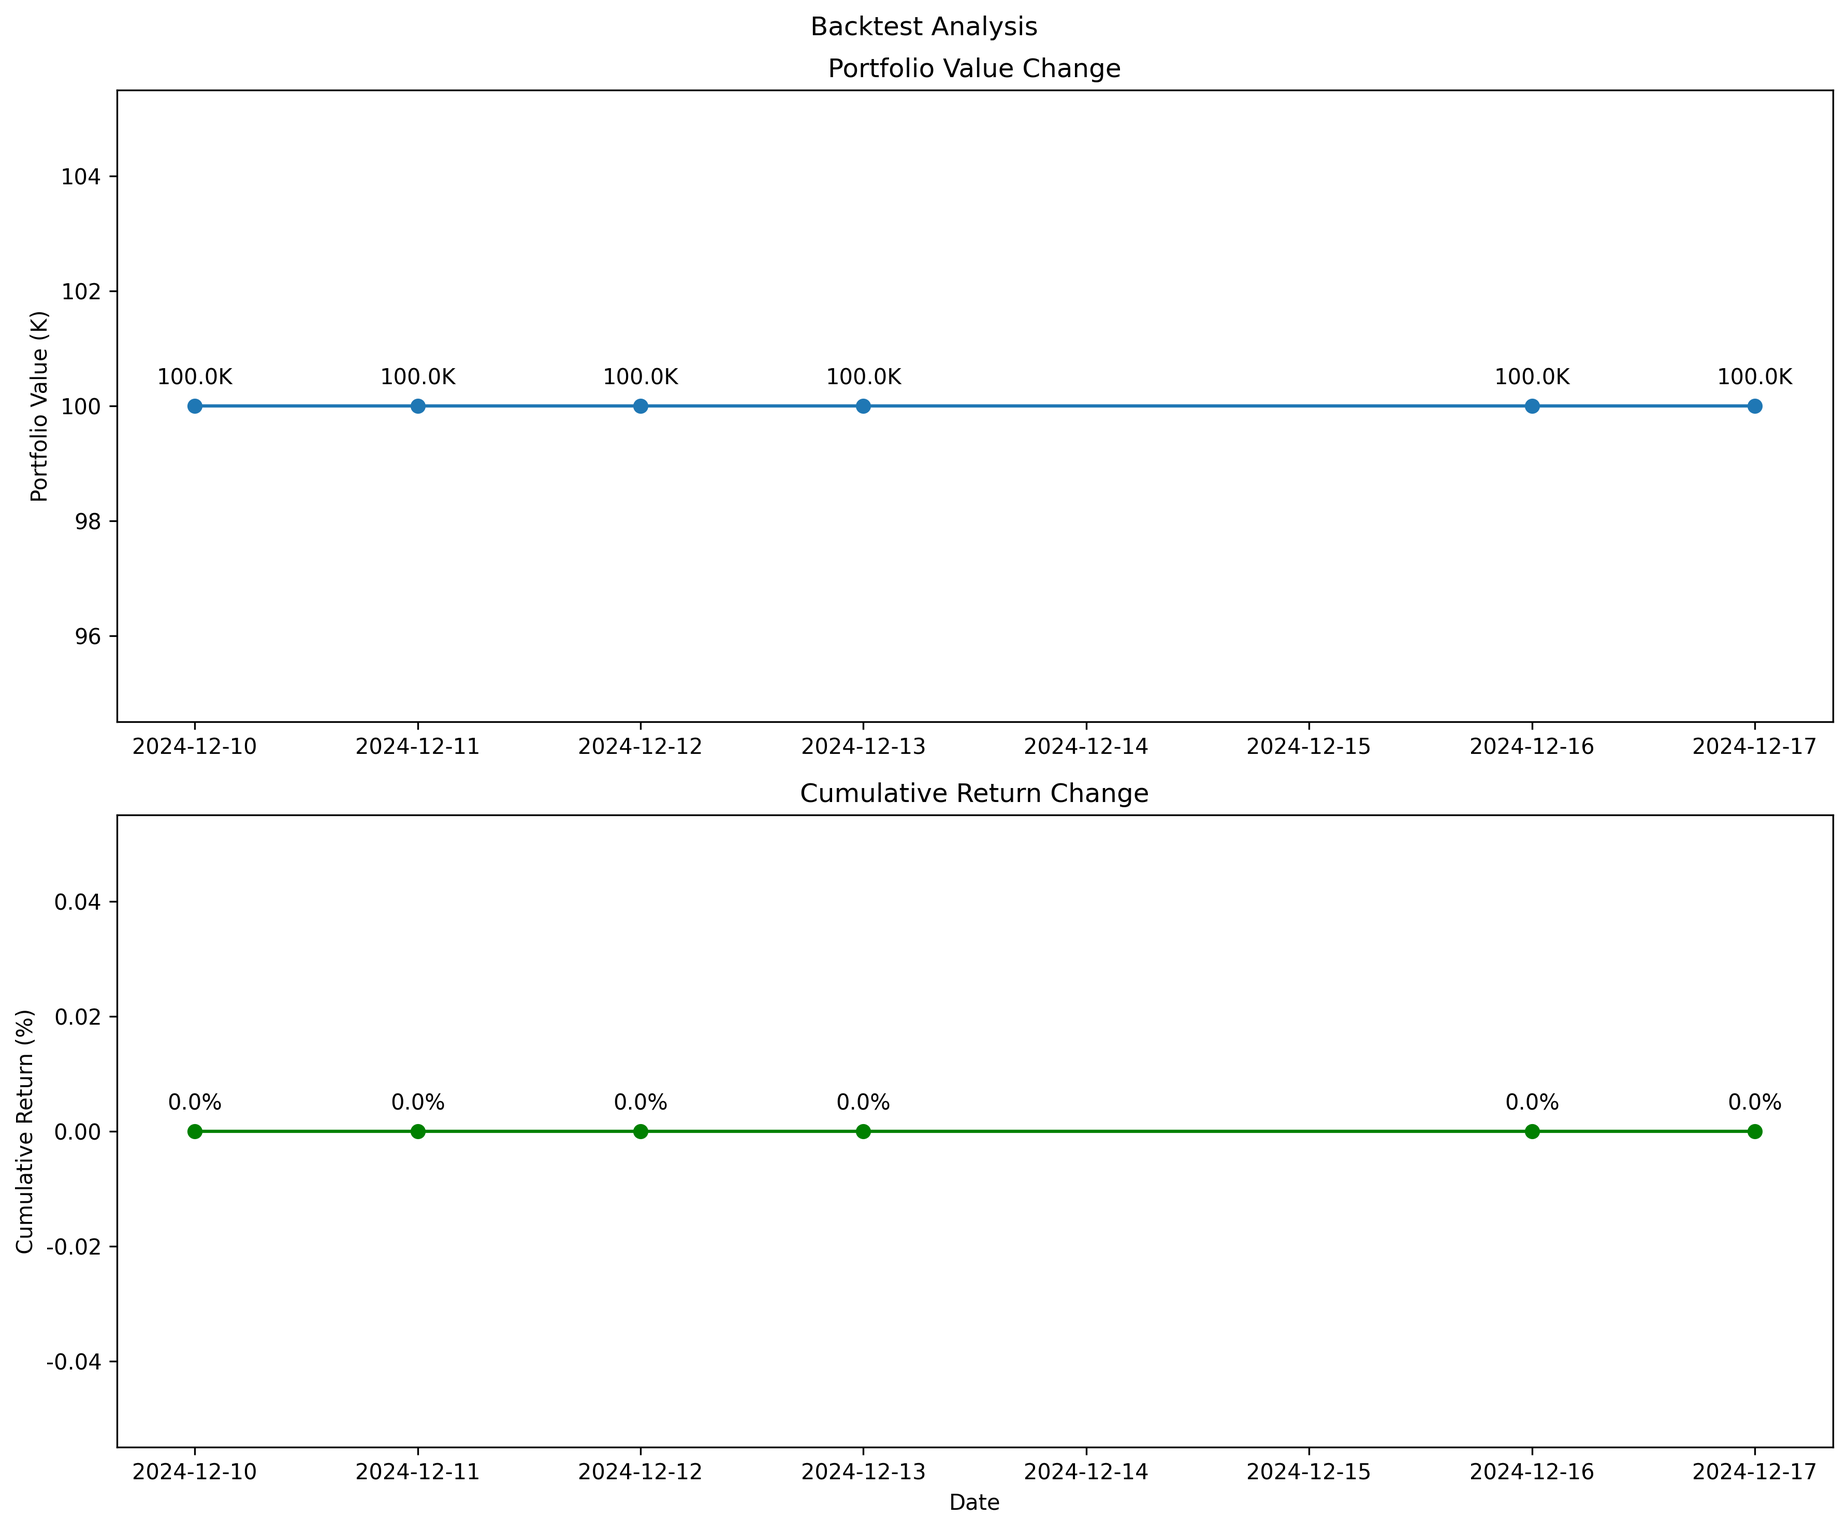
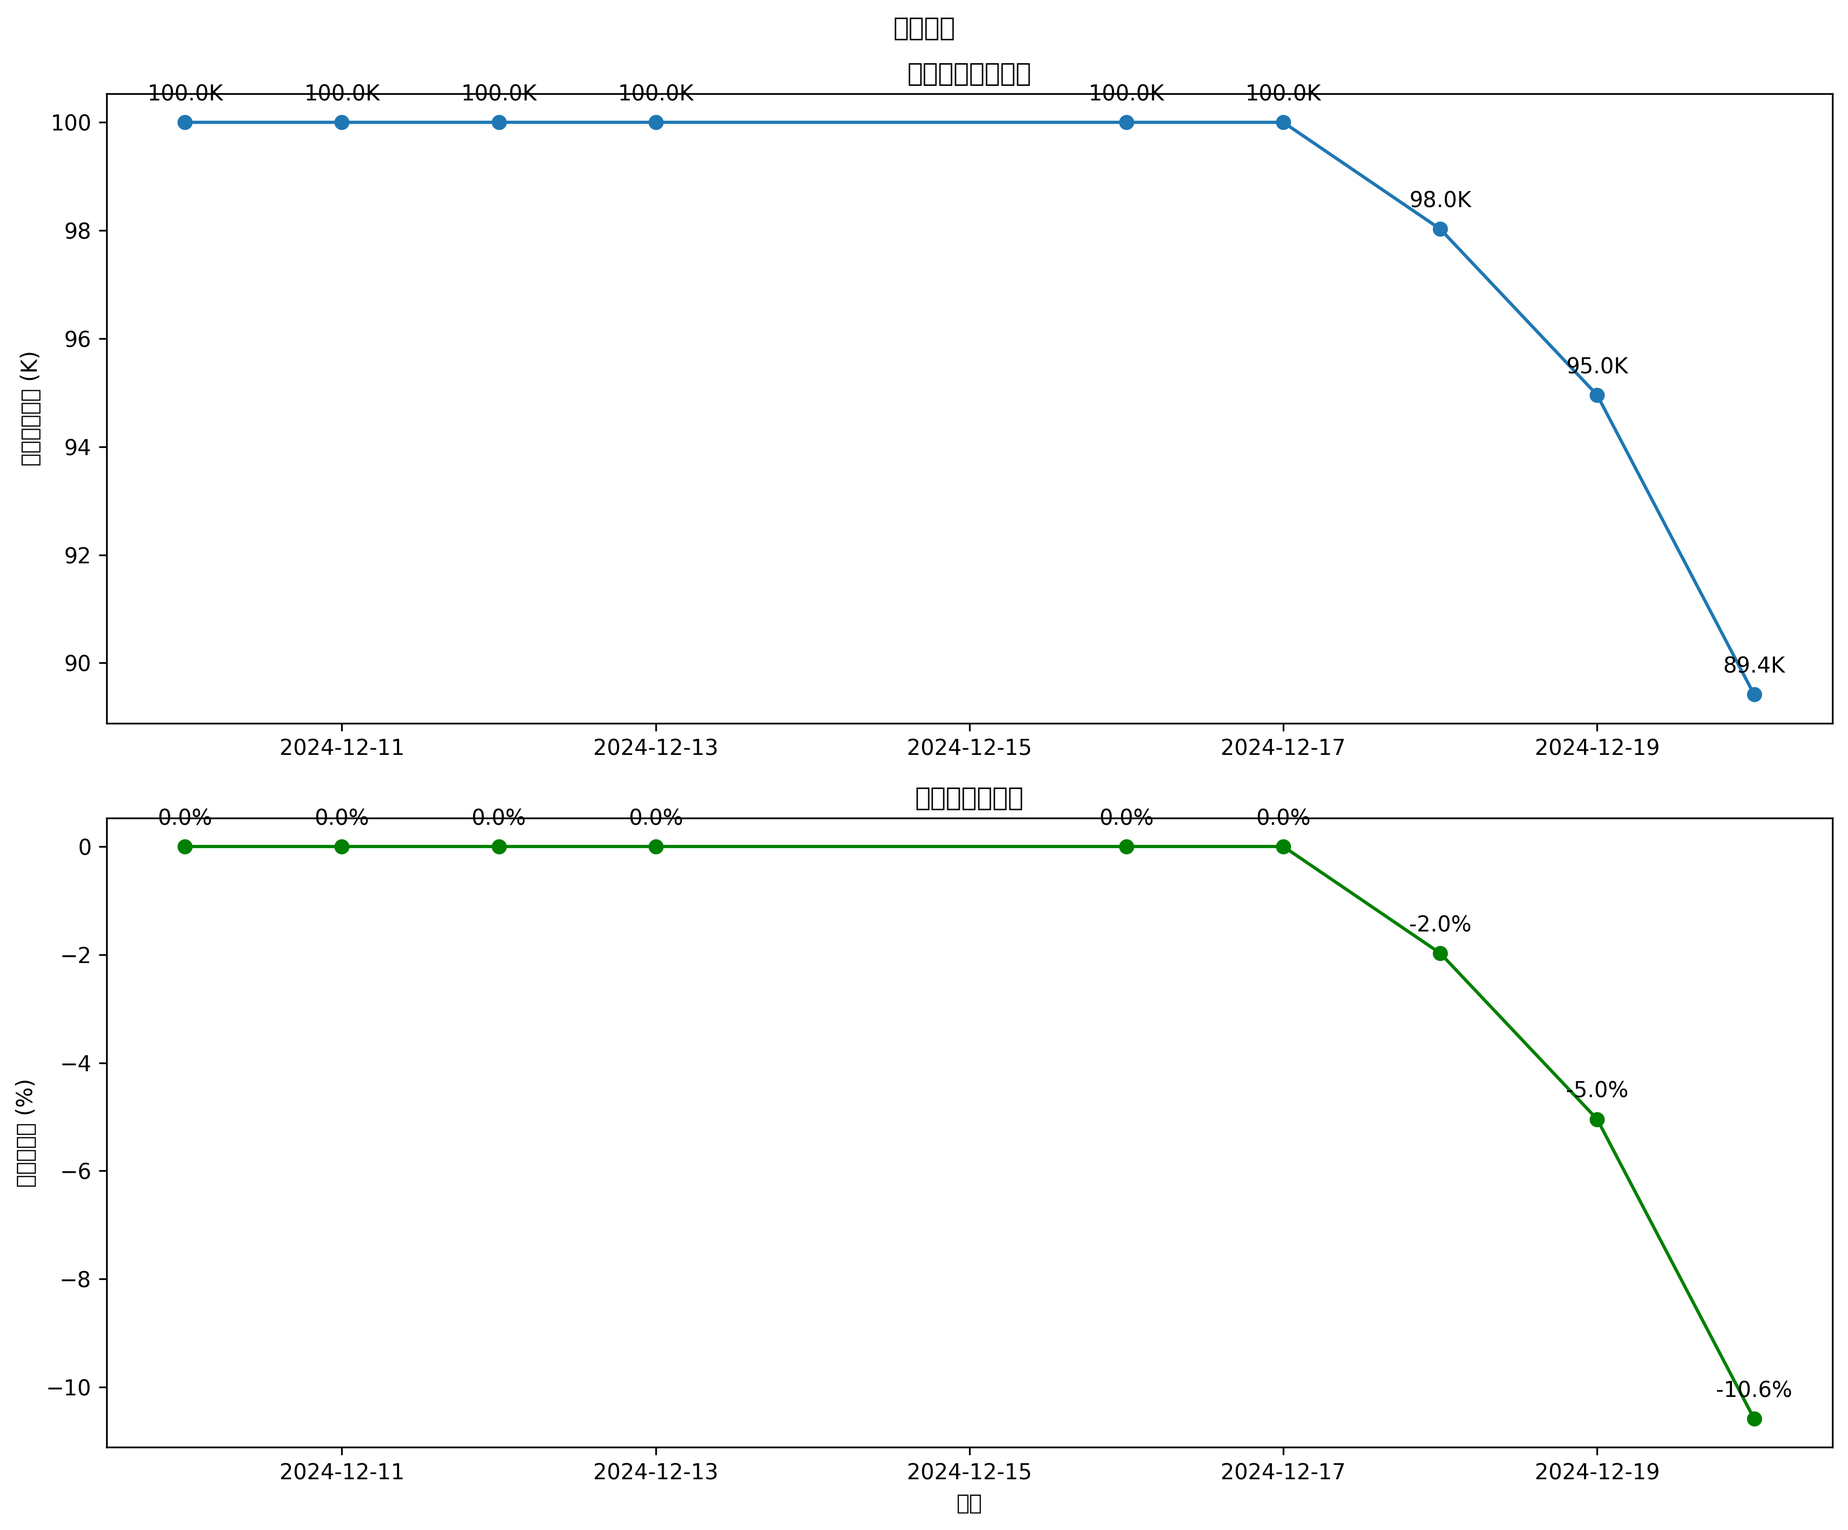
增加日志

diff --git a/src/backtester.py b/src/backtester.py
@@ -13,7 +13,7 @@ import warnings
 from main import run_hedge_fund
 from tools.api import get_price_data
 
-# Configure Chinese font based on OS
+# 根据操作系统配置中文字体
 if sys.platform.startswith('win'):
     matplotlib.rc('font', family='Microsoft YaHei')
 elif sys.platform.startswith('linux'):
@@ -21,8 +21,8 @@ elif sys.platform.startswith('linux'):
 else:
     matplotlib.rc('font', family='PingFang SC')
 
-# Enable minus sign display
-matplotlib.rcParams['axes.unicode_minus'] = False
+# 启用负号显示
+matplotlib.rcParams['axes.unicode_minus'] = True
 
 # Disable matplotlib warnings
 warnings.filterwarnings('ignore', category=UserWarning, module='matplotlib')
@@ -44,23 +44,23 @@ class Backtester:
         self.portfolio_values = []
         self.num_of_news = num_of_news
 
-        # Setup logging
+        # 设置日志系统
         self.setup_backtest_logging()
         self.logger = self.setup_logging()
 
-        # Initialize API call management
+        # 初始化API调用管理
         self._api_call_count = 0
         self._api_window_start = time.time()
         self._last_api_call = 0
 
-        # Initialize market calendar
+        # 初始化市场日历
         self.nyse = mcal.get_calendar('NYSE')
 
-        # Validate inputs
+        # 验证输入参数
         self.validate_inputs()
 
     def setup_logging(self):
-        """Setup logging system"""
+        """设置日志系统"""
         logger = logging.getLogger('backtester')
         logger.setLevel(logging.INFO)
         if not logger.handlers:
@@ -72,7 +72,7 @@ class Backtester:
         return logger
 
     def validate_inputs(self):
-        """Validate input parameters"""
+        """验证输入参数"""
         try:
             start = datetime.strptime(self.start_date, "%Y-%m-%d")
             end = datetime.strptime(self.end_date, "%Y-%m-%d")
@@ -86,14 +86,14 @@ class Backtester:
             if not (self.ticker.isalpha() or (len(self.ticker) == 6 and self.ticker.isdigit())):
                 self.backtest_logger.warning(
                     f"Stock code {self.ticker} might be in an unusual format")
-            self.backtest_logger.info("Input parameters validated")
+            self.backtest_logger.info("输入参数验证通过")
         except Exception as e:
             self.backtest_logger.error(
-                f"Input parameter validation failed: {str(e)}")
+                f"输入参数验证失败: {str(e)}")
             raise
 
     def setup_backtest_logging(self):
-        """Setup backtest logging"""
+        """设置回测日志"""
         log_dir = os.path.join(os.path.dirname(
             os.path.abspath(__file__)), '..', 'logs')
         os.makedirs(log_dir, exist_ok=True)
@@ -116,21 +116,21 @@ class Backtester:
         self.backtest_logger.addHandler(file_handler)
 
         self.backtest_logger.info(
-            f"Backtest Start Time: {datetime.now().strftime('%Y-%m-%d %H:%M:%S')}")
-        self.backtest_logger.info(f"Stock Code: {self.ticker}")
+            f"回测开始时间: {datetime.now().strftime('%Y-%m-%d %H:%M:%S')}")
+        self.backtest_logger.info(f"股票代码: {self.ticker}")
         self.backtest_logger.info(
-            f"Backtest Period: {self.start_date} to {self.end_date}")
+            f"回测周期: {self.start_date} 到 {self.end_date}")
         self.backtest_logger.info(
-            f"Initial Capital: {self.initial_capital:,.2f}\n")
+            f"初始资本: {self.initial_capital:,.2f}\n")
         self.backtest_logger.info("-" * 100)
 
     def is_market_open(self, date_str):
-        """Check if the market is open on a given date"""
+        """检查给定日期市场是否开放"""
         schedule = self.nyse.schedule(start_date=date_str, end_date=date_str)
         return not schedule.empty
 
     def get_previous_trading_day(self, date_str):
-        """Get the previous trading day for a given date"""
+        """获取给定日期的前一个交易日"""
         date = pd.Timestamp(date_str)
         schedule = self.nyse.schedule(
             start_date=date - pd.Timedelta(days=10),
@@ -141,7 +141,7 @@ class Backtester:
         return schedule.index[-2].strftime('%Y-%m-%d')
 
     def get_agent_decision(self, current_date, lookback_start, portfolio, num_of_news):
-        """Get agent decision with API rate limiting"""
+        """获取代理决策并进行API速率限制"""
         max_retries = 3
         current_time = time.time()
 
@@ -220,7 +220,7 @@ class Backtester:
                 time.sleep(2 ** attempt)
 
     def execute_trade(self, action, quantity, current_price):
-        """Execute trade with portfolio constraints"""
+        """根据投资组合约束执行交易"""
         if action == "buy" and quantity > 0:
             cost = quantity * current_price
             if cost <= self.portfolio["cash"]:
@@ -244,61 +244,61 @@ class Backtester:
         return 0
 
     def run_backtest(self):
-        """Run backtest simulation"""
-        # Get valid trading days from market calendar
+        """运行回测模拟"""
+        # 从市场日历中获取有效交易日期
         schedule = self.nyse.schedule(
             start_date=self.start_date, end_date=self.end_date)
         dates = pd.DatetimeIndex([dt.strftime('%Y-%m-%d')
                                  for dt in schedule.index])
 
-        self.backtest_logger.info("\nStarting backtest...")
+        self.backtest_logger.info("\n开始回测...")
         print(f"{'Date':<12} {'Code':<6} {'Action':<6} {'Quantity':>8} {'Price':>8} {'Cash':>12} {'Stock':>8} {'Total':>12} {'Bull':>8} {'Bear':>8} {'Neutral':>8}")
         print("-" * 110)
 
         for current_date in dates:
             current_date_str = current_date.strftime("%Y-%m-%d")
 
-            # Check if market is open
+            # 检查市场是否开放
             if not self.is_market_open(current_date_str):
                 self.backtest_logger.info(
-                    f"Market is closed on {current_date_str} (Holiday), skipping...")
+                    f"{current_date_str} 市场关闭（假期），跳过...")
                 continue
 
-            # Get previous trading day
+            # 获取前一个交易日
             decision_date = self.get_previous_trading_day(current_date_str)
             if decision_date is None:
                 self.backtest_logger.warning(
-                    f"Could not find previous trading day for {current_date_str}, skipping...")
+                    f"无法找到 {current_date_str} 的前一个交易日，跳过...")
                 continue
 
-            # Use 365-day lookback window
+            # 使用365天的回溯窗口
             lookback_start = (pd.Timestamp(current_date_str) -
                               pd.Timedelta(days=365)).strftime("%Y-%m-%d")
 
             self.backtest_logger.info(
-                f"\nProcessing trading day: {current_date_str}")
+                f"\n处理交易日: {current_date_str}")
             self.backtest_logger.info(
-                f"Using data up to: {decision_date} (previous trading day)")
+                f"使用数据截至: {decision_date}（前一个交易日）")
             self.backtest_logger.info(
-                f"Historical data range: {lookback_start} to {decision_date}")
+                f"历史数据范围: {lookback_start} 到 {decision_date}")
 
-            # Get current day's price data for trade execution
+            # 获取当前日的价格数据以执行交易
             try:
                 df = get_price_data(
                     self.ticker, current_date_str, current_date_str)
                 if df is None or df.empty:
                     self.backtest_logger.warning(
-                        f"No price data available for {current_date_str}, skipping...")
+                        f"{current_date_str} 没有可用的价格数据，跳过...")
                     continue
 
-                # Use opening price for trade execution
+                # 使用开盘价进行交易执行
                 current_price = df.iloc[0]['open']
             except Exception as e:
                 self.backtest_logger.error(
-                    f"Error getting price data for {current_date_str}: {str(e)}")
+                    f"获取 {current_date_str} 的价格数据时出错: {str(e)}")
                 continue
 
-            # Get agent decision based on historical data
+            # 获取基于历史数据的代理决策
             output = self.get_agent_decision(
                 decision_date,
                 lookback_start,
@@ -306,22 +306,22 @@ class Backtester:
                 self.num_of_news
             )
 
-            self.backtest_logger.info(f"\nTrade Date: {current_date_str}")
+            self.backtest_logger.info(f"\n交易日期: {current_date_str}")
             self.backtest_logger.info(
-                f"Decision based on data up to: {decision_date}")
+                f"基于数据的决策截至: {decision_date}")
 
             if "analyst_signals" in output:
-                self.backtest_logger.info("\nAgent Analysis Results:")
+                self.backtest_logger.info("\n代理分析结果:")
                 for agent_name, signal in output["analyst_signals"].items():
                     self.backtest_logger.info(f"\n{agent_name}:")
 
-                    signal_str = f"- Signal: {signal.get('signal', 'unknown')}"
+                    signal_str = f"- 信号: {signal.get('signal', '未知')}"
                     if 'confidence' in signal:
-                        signal_str += f", Confidence: {signal.get('confidence', 0)*100:.0f}%"
+                        signal_str += f", 置信度: {signal.get('confidence', 0)*100:.0f}%"
                     self.backtest_logger.info(signal_str)
 
                     if 'analysis' in signal:
-                        self.backtest_logger.info("- Analysis:")
+                        self.backtest_logger.info("- 分析:")
                         analysis = signal['analysis']
                         if isinstance(analysis, dict):
                             for key, value in analysis.items():
@@ -333,7 +333,7 @@ class Backtester:
                             self.backtest_logger.info(f"  {analysis}")
 
                     if 'reason' in signal:
-                        self.backtest_logger.info("- Decision Rationale:")
+                        self.backtest_logger.info("- 决策理由:")
                         reason = signal['reason']
                         if isinstance(reason, list):
                             for item in reason:
@@ -346,30 +346,30 @@ class Backtester:
             action, quantity = agent_decision.get(
                 "action", "hold"), agent_decision.get("quantity", 0)
 
-            self.backtest_logger.info("\nFinal Decision:")
-            self.backtest_logger.info(f"Action: {action.upper()}")
-            self.backtest_logger.info(f"Quantity: {quantity}")
+            self.backtest_logger.info("\n最终决策:")
+            self.backtest_logger.info(f"动作: {action.upper()}")
+            self.backtest_logger.info(f"数量: {quantity}")
             if "reason" in agent_decision:
                 self.backtest_logger.info(
-                    f"Reason: {agent_decision['reason']}")
+                    f"理由: {agent_decision['reason']}")
 
-            # Execute trade
+            # 执行交易
             executed_quantity = self.execute_trade(
                 action, quantity, current_price)
 
-            # Update portfolio value
+            # 更新投资组合价值
             total_value = self.portfolio["cash"] + \
                 self.portfolio["stock"] * current_price
             self.portfolio["portfolio_value"] = total_value
 
-            # Record portfolio value
+            # 记录投资组合价值
             self.portfolio_values.append({
                 "Date": current_date_str,
                 "Portfolio Value": total_value,
                 "Daily Return": (total_value / self.portfolio_values[-1]["Portfolio Value"] - 1) * 100 if self.portfolio_values else 0
             })
 
-            # Count signals
+            # 计数信号
             bull_count = sum(1 for signal in output.get(
                 "analyst_signals", {}).values() if signal.get("signal") == "buy")
             bear_count = sum(1 for signal in output.get(
@@ -377,20 +377,20 @@ class Backtester:
             neutral_count = sum(1 for signal in output.get(
                 "analyst_signals", {}).values() if signal.get("signal") == "hold")
 
-            # Print trade record
+            # 打印交易记录
             print(
                 f"{current_date_str:<12} {self.ticker:<6} {action:<6} {executed_quantity:>8} "
                 f"{current_price:>8.2f} {self.portfolio['cash']:>12.2f} {self.portfolio['stock']:>8} "
                 f"{total_value:>12.2f} {bull_count:>8} {bear_count:>8} {neutral_count:>8}"
             )
 
-        # Analyze backtest results
+        # 分析回测结果
         self.analyze_performance()
 
     def analyze_performance(self):
-        """Analyze backtest performance"""
+        """分析回测性能"""
         if not self.portfolio_values:
-            self.backtest_logger.warning("No portfolio values to analyze")
+            self.backtest_logger.warning("没有可分析的投资组合价值")
             return
 
         try:
@@ -407,13 +407,13 @@ class Backtester:
             # 创建子图
             fig, (ax1, ax2) = plt.subplots(
                 2, 1, figsize=(12, 10), height_ratios=[1, 1])
-            fig.suptitle("Backtest Analysis", fontsize=12)
+            fig.suptitle("回测分析", fontsize=12)
 
             # 绘制投资组合价值
             line1 = ax1.plot(performance_df.index, performance_df["Portfolio Value (K)"],
-                             label="Portfolio Value", marker='o')
-            ax1.set_ylabel("Portfolio Value (K)")
-            ax1.set_title("Portfolio Value Change")
+                             label="投资组合价值", marker='o')
+            ax1.set_ylabel("投资组合价值 (K)")
+            ax1.set_title("投资组合价值变化")
 
             # 添加数据标注
             for x, y in zip(performance_df.index, performance_df["Portfolio Value (K)"]):
@@ -425,9 +425,9 @@ class Backtester:
 
             # 绘制累计收益率
             line2 = ax2.plot(performance_df.index, performance_df["Cumulative Return"],
-                             label="Cumulative Return", color='green', marker='o')
-            ax2.set_ylabel("Cumulative Return (%)")
-            ax2.set_title("Cumulative Return Change")
+                             label="累计收益率", color='green', marker='o')
+            ax2.set_ylabel("累计收益率 (%)")
+            ax2.set_title("累计收益率变化")
 
             # 添加数据标注
             for x, y in zip(performance_df.index, performance_df["Cumulative Return"]):
@@ -437,7 +437,7 @@ class Backtester:
                              xytext=(0, 10),
                              ha='center')
 
-            plt.xlabel("Date")
+            plt.xlabel("日期")
             plt.tight_layout()
 
             # 保存图片
@@ -453,14 +453,14 @@ class Backtester:
 
             # 输出回测总结
             self.backtest_logger.info("\n" + "=" * 50)
-            self.backtest_logger.info("Backtest Summary")
+            self.backtest_logger.info("回测总结")
             self.backtest_logger.info("=" * 50)
             self.backtest_logger.info(
-                f"Initial Capital: {self.initial_capital:,.2f}")
+                f"初始资本: {self.initial_capital:,.2f}")
             self.backtest_logger.info(
-                f"Final Value: {self.portfolio['portfolio_value']:,.2f}")
+                f"最终价值: {self.portfolio['portfolio_value']:,.2f}")
             self.backtest_logger.info(
-                f"Total Return: {total_return * 100:.2f}%")
+                f"总回报: {total_return * 100:.2f}%")
 
             # 计算夏普比率
             daily_returns = performance_df["Daily Return"] / 100
@@ -468,19 +468,19 @@ class Backtester:
             std_daily_return = daily_returns.std()
             sharpe_ratio = (mean_daily_return / std_daily_return) * \
                 (252 ** 0.5) if std_daily_return != 0 else 0
-            self.backtest_logger.info(f"Sharpe Ratio: {sharpe_ratio:.2f}")
+            self.backtest_logger.info(f"夏普比率: {sharpe_ratio:.2f}")
 
             # 计算最大回撤
             rolling_max = performance_df["Portfolio Value"].cummax()
             drawdown = (
                 performance_df["Portfolio Value"] / rolling_max - 1) * 100
             max_drawdown = drawdown.min()
-            self.backtest_logger.info(f"Maximum Drawdown: {max_drawdown:.2f}%")
+            self.backtest_logger.info(f"最大回撤: {max_drawdown:.2f}%")
 
             return performance_df
         except Exception as e:
             self.backtest_logger.error(
-                f"Error in performance analysis: {str(e)}")
+                f"性能分析出错: {str(e)}")
             return None
 
 
